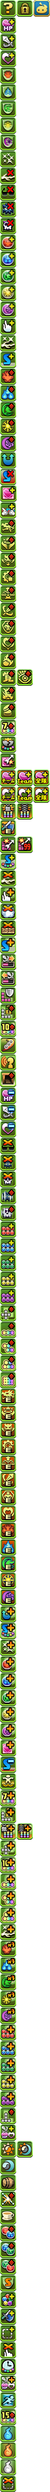
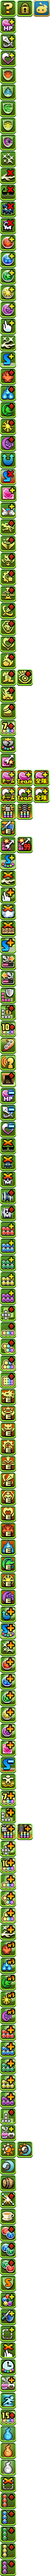
加入5个新觉醒

diff --git a/multi.html b/multi.html
@@ -1130,6 +1130,11 @@ const teamsCount = 2;
 						<li class="awoken-count"><button class="awoken-icon" data-awoken-icon="146"></button><!--勇气之魂--></li>
 						<li class="awoken-count"><button class="awoken-icon" data-awoken-icon="147"></button><!--命运之魂--></li>
 						<li class="awoken-count"><button class="awoken-icon" data-awoken-icon="148" data-max-count="1"></button><!--防除武--></li>
+						<li class="awoken-count"><button class="awoken-icon" data-awoken-icon="149"></button><!--火竖--></li>
+						<li class="awoken-count"><button class="awoken-icon" data-awoken-icon="150"></button><!--水竖--></li>
+						<li class="awoken-count"><button class="awoken-icon" data-awoken-icon="151"></button><!--木竖--></li>
+						<li class="awoken-count"><button class="awoken-icon" data-awoken-icon="152"></button><!--光竖--></li>
+						<li class="awoken-count"><button class="awoken-icon" data-awoken-icon="153"></button><!--暗竖--></li>
 					</ul>
 				</div>
 				<details class="sawoken-detail"><!--超觉醒列表-->
@@ -1283,6 +1288,11 @@ const teamsCount = 2;
 						<li class="awoken-count"><input type="checkbox" class="sawoken-check" name="types" value="146" id="search-awoken-146" /><label class="awoken-icon" data-awoken-icon="146" for="search-awoken-146"></label><!--勇气之魂--></li>
 						<li class="awoken-count"><input type="checkbox" class="sawoken-check" name="types" value="147" id="search-awoken-147" /><label class="awoken-icon" data-awoken-icon="147" for="search-awoken-147"></label><!--命运之魂--></li>
 						<li class="awoken-count"><input type="checkbox" class="sawoken-check" name="types" value="148" id="search-awoken-148" /><label class="awoken-icon" data-awoken-icon="148" for="search-awoken-148"></label><!--防除武--></li>
+						<li class="awoken-count"><input type="checkbox" class="sawoken-check" name="types" value="149" id="search-awoken-149" /><label class="awoken-icon" data-awoken-icon="149" for="search-awoken-149"></label><!--火竖--></li>
+						<li class="awoken-count"><input type="checkbox" class="sawoken-check" name="types" value="150" id="search-awoken-150" /><label class="awoken-icon" data-awoken-icon="150" for="search-awoken-150"></label><!--水竖--></li>
+						<li class="awoken-count"><input type="checkbox" class="sawoken-check" name="types" value="151" id="search-awoken-151" /><label class="awoken-icon" data-awoken-icon="151" for="search-awoken-151"></label><!--木竖--></li>
+						<li class="awoken-count"><input type="checkbox" class="sawoken-check" name="types" value="152" id="search-awoken-152" /><label class="awoken-icon" data-awoken-icon="152" for="search-awoken-152"></label><!--光竖--></li>
+						<li class="awoken-count"><input type="checkbox" class="sawoken-check" name="types" value="153" id="search-awoken-153" /><label class="awoken-icon" data-awoken-icon="153" for="search-awoken-153"></label><!--暗竖--></li>
 					</ul>
 				</details>
 			</div>

diff --git a/triple.html b/triple.html
@@ -1665,6 +1665,11 @@ const teamsCount = 3;
 						<li class="awoken-count"><button class="awoken-icon" data-awoken-icon="146"></button><!--勇气之魂--></li>
 						<li class="awoken-count"><button class="awoken-icon" data-awoken-icon="147"></button><!--命运之魂--></li>
 						<li class="awoken-count"><button class="awoken-icon" data-awoken-icon="148" data-max-count="1"></button><!--防除武--></li>
+						<li class="awoken-count"><button class="awoken-icon" data-awoken-icon="149"></button><!--火竖--></li>
+						<li class="awoken-count"><button class="awoken-icon" data-awoken-icon="150"></button><!--水竖--></li>
+						<li class="awoken-count"><button class="awoken-icon" data-awoken-icon="151"></button><!--木竖--></li>
+						<li class="awoken-count"><button class="awoken-icon" data-awoken-icon="152"></button><!--光竖--></li>
+						<li class="awoken-count"><button class="awoken-icon" data-awoken-icon="153"></button><!--暗竖--></li>
 					</ul>
 				</div>
 				<details class="sawoken-detail"><!--超觉醒列表-->
@@ -1818,6 +1823,11 @@ const teamsCount = 3;
 						<li class="awoken-count"><input type="checkbox" class="sawoken-check" name="types" value="146" id="search-awoken-146" /><label class="awoken-icon" data-awoken-icon="146" for="search-awoken-146"></label><!--勇气之魂--></li>
 						<li class="awoken-count"><input type="checkbox" class="sawoken-check" name="types" value="147" id="search-awoken-147" /><label class="awoken-icon" data-awoken-icon="147" for="search-awoken-147"></label><!--命运之魂--></li>
 						<li class="awoken-count"><input type="checkbox" class="sawoken-check" name="types" value="148" id="search-awoken-148" /><label class="awoken-icon" data-awoken-icon="148" for="search-awoken-148"></label><!--防除武--></li>
+						<li class="awoken-count"><input type="checkbox" class="sawoken-check" name="types" value="149" id="search-awoken-149" /><label class="awoken-icon" data-awoken-icon="149" for="search-awoken-149"></label><!--火竖--></li>
+						<li class="awoken-count"><input type="checkbox" class="sawoken-check" name="types" value="150" id="search-awoken-150" /><label class="awoken-icon" data-awoken-icon="150" for="search-awoken-150"></label><!--水竖--></li>
+						<li class="awoken-count"><input type="checkbox" class="sawoken-check" name="types" value="151" id="search-awoken-151" /><label class="awoken-icon" data-awoken-icon="151" for="search-awoken-151"></label><!--木竖--></li>
+						<li class="awoken-count"><input type="checkbox" class="sawoken-check" name="types" value="152" id="search-awoken-152" /><label class="awoken-icon" data-awoken-icon="152" for="search-awoken-152"></label><!--光竖--></li>
+						<li class="awoken-count"><input type="checkbox" class="sawoken-check" name="types" value="153" id="search-awoken-153" /><label class="awoken-icon" data-awoken-icon="153" for="search-awoken-153"></label><!--暗竖--></li>
 					</ul>
 				</details>
 			</div>

diff --git a/solo.html b/solo.html
@@ -820,6 +820,11 @@ const teamsCount = 1;
 						<li class="awoken-count"><button class="awoken-icon" data-awoken-icon="146"></button><!--勇气之魂--></li>
 						<li class="awoken-count"><button class="awoken-icon" data-awoken-icon="147"></button><!--命运之魂--></li>
 						<li class="awoken-count"><button class="awoken-icon" data-awoken-icon="148" data-max-count="1"></button><!--防除武--></li>
+						<li class="awoken-count"><button class="awoken-icon" data-awoken-icon="149"></button><!--火竖--></li>
+						<li class="awoken-count"><button class="awoken-icon" data-awoken-icon="150"></button><!--水竖--></li>
+						<li class="awoken-count"><button class="awoken-icon" data-awoken-icon="151"></button><!--木竖--></li>
+						<li class="awoken-count"><button class="awoken-icon" data-awoken-icon="152"></button><!--光竖--></li>
+						<li class="awoken-count"><button class="awoken-icon" data-awoken-icon="153"></button><!--暗竖--></li>
 					</ul>
 				</div>
 				<details class="sawoken-detail"><!--超觉醒列表-->
@@ -973,6 +978,11 @@ const teamsCount = 1;
 						<li class="awoken-count"><input type="checkbox" class="sawoken-check" name="types" value="146" id="search-awoken-146" /><label class="awoken-icon" data-awoken-icon="146" for="search-awoken-146"></label><!--勇气之魂--></li>
 						<li class="awoken-count"><input type="checkbox" class="sawoken-check" name="types" value="147" id="search-awoken-147" /><label class="awoken-icon" data-awoken-icon="147" for="search-awoken-147"></label><!--命运之魂--></li>
 						<li class="awoken-count"><input type="checkbox" class="sawoken-check" name="types" value="148" id="search-awoken-148" /><label class="awoken-icon" data-awoken-icon="148" for="search-awoken-148"></label><!--防除武--></li>
+						<li class="awoken-count"><input type="checkbox" class="sawoken-check" name="types" value="149" id="search-awoken-149" /><label class="awoken-icon" data-awoken-icon="149" for="search-awoken-149"></label><!--火竖--></li>
+						<li class="awoken-count"><input type="checkbox" class="sawoken-check" name="types" value="150" id="search-awoken-150" /><label class="awoken-icon" data-awoken-icon="150" for="search-awoken-150"></label><!--水竖--></li>
+						<li class="awoken-count"><input type="checkbox" class="sawoken-check" name="types" value="151" id="search-awoken-151" /><label class="awoken-icon" data-awoken-icon="151" for="search-awoken-151"></label><!--木竖--></li>
+						<li class="awoken-count"><input type="checkbox" class="sawoken-check" name="types" value="152" id="search-awoken-152" /><label class="awoken-icon" data-awoken-icon="152" for="search-awoken-152"></label><!--光竖--></li>
+						<li class="awoken-count"><input type="checkbox" class="sawoken-check" name="types" value="153" id="search-awoken-153" /><label class="awoken-icon" data-awoken-icon="153" for="search-awoken-153"></label><!--暗竖--></li>
 					</ul>
 				</details>
 			</div>

diff --git a/caches-map.js b/caches-map.js
@@ -1733,7 +1733,7 @@ const cachesMap = new Map([
 	],
 	[
 		"multi.html",
-		"7ee8292ffc2dfa55"
+		"006a2fdd1015e55e"
 	],
 	[
 		"script-custom_elements.js",
@@ -1741,7 +1741,7 @@ const cachesMap = new Map([
 	],
 	[
 		"script-json_data.js",
-		"515153a4e18a9052"
+		"76f473e3d5f07af3"
 	],
 	[
 		"script-skill-parser.js",
@@ -1757,7 +1757,7 @@ const cachesMap = new Map([
 	],
 	[
 		"solo.html",
-		"f8a4329e13eef2bc"
+		"bb2aad08c22558f1"
 	],
 	[
 		"style-fix-html2canvas.css",
@@ -1765,7 +1765,7 @@ const cachesMap = new Map([
 	],
 	[
 		"style-monsterimages.css",
-		"6a77db0eca1b5c2e"
+		"726d146cfd7ee23a"
 	],
 	[
 		"style.css",
@@ -1777,7 +1777,7 @@ const cachesMap = new Map([
 	],
 	[
 		"triple.html",
-		"b7a4c8c2d2cc80c9"
+		"734058fd5f812ba6"
 	],
 	[
 		"languages/en.css",
@@ -1813,7 +1813,7 @@ const cachesMap = new Map([
 	],
 	[
 		"languages/zh-hans.js",
-		"24d4b1ab4431c3a9"
+		"52174eb681fd1da4"
 	],
 	[
 		"languages/zh-hant.css",
@@ -1821,7 +1821,7 @@ const cachesMap = new Map([
 	],
 	[
 		"languages/zh-hant.js",
-		"2a2632c393783bf9"
+		"930791caae57ed21"
 	],
 	[
 		"images/attrs.png",
@@ -1837,7 +1837,7 @@ const cachesMap = new Map([
 	],
 	[
 		"images/awoken.png",
-		"4463c7f5e51c8bba"
+		"6d4da99dd095e839"
 	],
 	[
 		"images/badge-bg.png",

diff --git a/script-json_data.js b/script-json_data.js
@@ -507,6 +507,11 @@ let localTranslating = {
 			[146]: tp`${'icon'}Courageous Soul`,
 			[147]: tp`${'icon'}Fateful Soul`,
 			[148]: tp`${'icon'}Remove Assist Resistance`,
+			[149]: tp`${'icon'}Fire Colume`,
+			[150]: tp`${'icon'}Water Colume`,
+			[151]: tp`${'icon'}Wood Colume`,
+			[152]: tp`${'icon'}Light Colume`,
+			[153]: tp`${'icon'}Dark Colume`,
 		}
 	},
 };
@@ -654,7 +659,7 @@ const official_awoken_sorting = [
 	143,133,134,135,137, 29,  9, 20, 44,
 	 99,100,101,102,103,104, 98,115, 71,
 	 22, 23, 24, 25, 26, 46, 47, 30, 72,
-	116,117,118,119,120,  1,  2,  3,127,
+	149,150,151,152,153,  1,  2,  3,127,
 	  4,  5,  6,  7,  8, 32, 31, 33, 34,
 	 73, 74, 75, 76, 77, 35, 36, 37, 38,
 	121,122,123,124,125, 39, 40, 41, 42,
@@ -664,6 +669,7 @@ const official_awoken_sorting = [
 	145,146,147,
 	//已废弃觉醒，但是不能删除，否则导致程序有问题
 	 10, 11, 14, 15, 16, 17, 18, 19, 12, 13,
+	116,117,118,119,120,
 ];
 
 //排序程序列表

diff --git a/style-monsterimages.css b/style-monsterimages.css
@@ -1175,6 +1175,21 @@
 .awoken-icon[data-awoken-icon='148']{/*防除武*/
 	--icon-y-index: 148;
 }
+.awoken-icon[data-awoken-icon='149']{/*火竖*/
+	--icon-y-index: 149;
+}
+.awoken-icon[data-awoken-icon='150']{/*水竖*/
+	--icon-y-index: 150;
+}
+.awoken-icon[data-awoken-icon='151']{/*木竖*/
+	--icon-y-index: 151;
+}
+.awoken-icon[data-awoken-icon='152']{/*光竖*/
+	--icon-y-index: 152;
+}
+.awoken-icon[data-awoken-icon='153']{/*暗竖*/
+	--icon-y-index: 153;
+}
 :lang(zh) .awoken-icon:where(
 	[data-awoken-icon='46'],
 	[data-awoken-icon='47'],

diff --git a/languages/zh-hans.js b/languages/zh-hans.js
@@ -492,6 +492,11 @@ const _localTranslating = {
 			[146]: tp`${'icon'}勇气之魂`,
 			[147]: tp`${'icon'}命运之魂`,
 			[148]: tp`${'icon'}防除武`,
+			[149]: tp`${'icon'}火竖`,
+			[150]: tp`${'icon'}水竖`,
+			[151]: tp`${'icon'}木竖`,
+			[152]: tp`${'icon'}光竖`,
+			[153]: tp`${'icon'}暗竖`,
 		}
 	},
 };

diff --git a/languages/zh-hant.js b/languages/zh-hant.js
@@ -490,6 +490,11 @@ const _localTranslating = {
 			[146]: tp`${'icon'}勇氣之魂`,
 			[147]: tp`${'icon'}命運之魂`,
 			[148]: tp`${'icon'}防除武`,
+			[149]: tp`${'icon'}火豎`,
+			[150]: tp`${'icon'}水豎`,
+			[151]: tp`${'icon'}木豎`,
+			[152]: tp`${'icon'}光豎`,
+			[153]: tp`${'icon'}暗豎`,
 		}
 	},
 };
